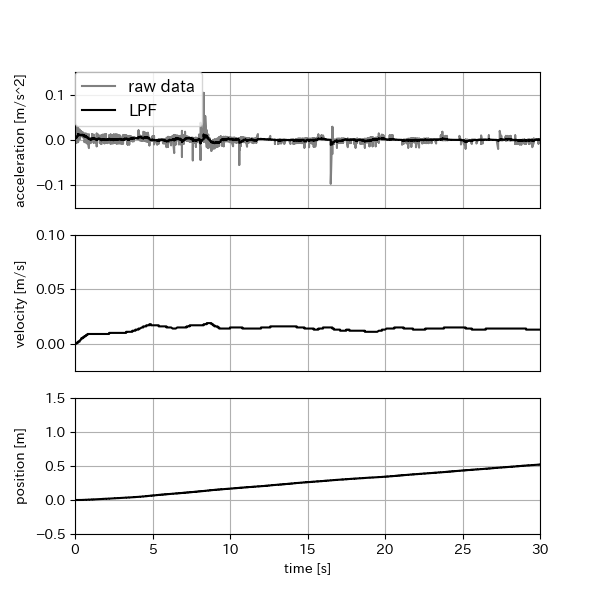
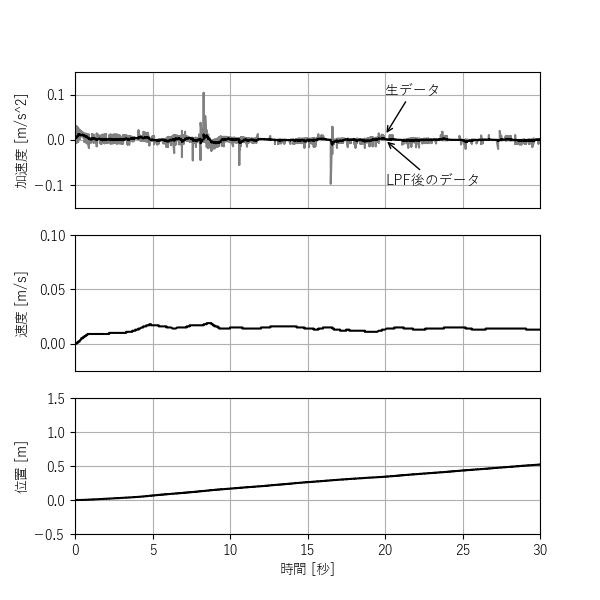
change graph

diff --git a/ExperimentalData/graph_rad.py b/ExperimentalData/graph_rad.py
@@ -1,8 +1,13 @@
 import numpy as np
 import matplotlib.pyplot as plt
-from enum import IntEnum, auto
+
+# 日本語フォント設定
+from matplotlib import rcParams
+rcParams["font.family"] = "sans-serif"
+rcParams["font.sans-serif"] = ["Yu Gothic"]
 
 # データの項目
+from enum import IntEnum, auto
 class item(IntEnum):
     time = 0
     acc_x = auto()
@@ -30,50 +35,23 @@ class item(IntEnum):
     pos_step_x = auto()
     pos_step_y = auto()
 
+# ローパスフィルタ
+def LPF(list):
+    list_LPF = [ list[0] ]
+    i = 1
+    C = 0.1
+    for nowdata in list:
+        list_LPF.append( (1-C) * list_LPF[i-1] + C * nowdata )
+        i+=1
+    list_LPF.pop(i-1)
+    return list_LPF
+
 # データの読み込み
 filename = "turnTable2"
 data = np.loadtxt("data/" + filename + ".txt", delimiter = ",", skiprows = 2, unpack = True) 
-fig1 = plt.figure(figsize=(6, 6))
 
-# ローパスフィルタ
-gyro_z_LPF = [ data[item.rad_vel_z][0] ]
-i = 1
-C = 0.1
-for nowdata in data[item.rad_vel_z]:
-    gyro_z_LPF.append( (1-C) * gyro_z_LPF[i-1] + C * nowdata )
-    i+=1
-gyro_z_LPF.pop(i-1)
-gyro_z_LPF_deg = list(map(lambda x: x * 180/np.pi, gyro_z_LPF))
-
-graph = fig1.add_subplot(311) 
-# graph.plot(data[time],data[rad_vel_x] * 180/np.pi, color="red", label = "x")
-# graph.plot(data[time],data[rad_vel_y] * 180/np.pi, color="blue", label = "y")
-graph.plot(data[item.time]/60, data[item.rad_vel_z]*180/np.pi, color="gray", label = "raw data")
-# graph.plot(data[item.time], gyro_z_LPF, color="black", label = "z")
-graph.plot(data[item.time]/60, gyro_z_LPF_deg, color="black", label = "LPF")
-plt.tick_params(labelbottom=False, bottom=False)
-graph.set_ylabel("angular velocity [deg/s]")
-graph.yaxis.set_label_coords(-0.1, 0.5)
-plt.legend(bbox_to_anchor=(0, 0), loc="lower left", borderaxespad=0, fontsize=12)
-plt.xlim(0,5)
-# plt.ylim(-0.13,0.13)
-plt.grid()
-
-graph = fig1.add_subplot(312)
+# 角度理想値
 expected = (data[item.time]+25)*6.12%360-180
-graph.plot(data[item.time]/60, expected, color="gray", label = "expected")
-graph.plot(data[item.time]/60, data[item.rad_gyro_z]*180/np.pi, color="red", label = "gyro")
-graph.plot(data[item.time]/60, data[item.rad_mag_z]*180/np.pi, color="blue", label = "mag")
-plt.legend(bbox_to_anchor=(0, 0), loc="lower left", borderaxespad=0, fontsize=12)
-plt.xlim(0,5)
-plt.ylim(-180,180)
-graph.set_yticks(np.linspace(-180, 180, 9))
-plt.grid()
-plt.tick_params(labelbottom=False, bottom=False)
-graph.set_ylabel("angle [deg]")
-graph.yaxis.set_label_coords(-0.1, 0.5)
-
-graph = fig1.add_subplot(313)
 
 # 誤差算出
 error_gyro = (expected - data[item.rad_gyro_z]*180/np.pi) % 360
@@ -88,15 +66,96 @@ for deg in error_mag:
     if deg > 180:
         error_mag[i] = deg-360
     i+=1
-    
-graph.plot(data[item.time]/60, error_gyro, color="red", label = "gyro")
-graph.plot(data[item.time]/60, error_mag, color="blue", label = "mag")
-plt.grid()
-plt.xlim(0,5)
-graph.set_yticks(np.linspace(-180, 180, 9))
-graph.set_ylabel("error [deg]")
-graph.yaxis.set_label_coords(-0.1, 0.5)
 
-graph.set_xlabel("time [min]")
+# 画面生成
+fig = plt.figure(figsize=(6, 6))
 
-plt.savefig("graph/rad/" + filename + ".png")
+# グラフ生成
+graph1 = fig.add_subplot(311) 
+graph2 = fig.add_subplot(312)
+graph3 = fig.add_subplot(313)
+
+# プロット
+graph1.plot(data[item.time]/60, data[item.rad_vel_z]*180/np.pi, color="gray", label = "raw data")
+graph1.plot(data[item.time]/60, LPF(data[item.rad_vel_z]*180/np.pi), color="black", label = "LPF")
+
+graph2.plot(data[item.time]/60, expected, color="gray", label = "expected")
+graph2.plot(data[item.time]/60, data[item.rad_gyro_z]*180/np.pi, color="red", label = "gyro")
+graph2.plot(data[item.time]/60, data[item.rad_mag_z]*180/np.pi, color="blue", label = "mag")
+
+graph3.plot(data[item.time]/60, error_gyro, color="red", label = "gyro")
+graph3.plot(data[item.time]/60, error_mag, color="blue", label = "mag")
+
+# 値の範囲
+xmin = 0
+xmax = 5
+graph1.set_xlim(xmin,xmax)
+graph2.set_xlim(xmin,xmax)
+graph3.set_xlim(xmin,xmax)
+
+ymin = -180
+ymax =  180
+graph2.set_ylim(ymin,ymax)
+graph3.set_ylim(ymin,ymax)
+
+# 目盛
+graph2.set_yticks(np.linspace(-180, 180, 9))
+graph3.set_yticks(np.linspace(-180, 180, 9))
+
+# ラベル
+graph1.tick_params(labelbottom=False, bottom=False)
+graph2.tick_params(labelbottom=False, bottom=False)
+graph3.set_xlabel("時間 [分]")
+
+graph1.set_ylabel("角速度 [deg/s]")
+graph2.set_ylabel("角度 [deg]")
+graph3.set_ylabel("誤差 [deg]")
+
+graph1.yaxis.set_label_coords(-0.1, 0.5)
+graph2.yaxis.set_label_coords(-0.1, 0.5)
+graph3.yaxis.set_label_coords(-0.1, 0.5)
+
+# グリッド
+graph1.grid()
+graph2.grid()
+graph3.grid()
+
+# 凡例
+# graph1.legend(bbox_to_anchor=(0, 0), loc="lower left", borderaxespad=0, fontsize=12)
+
+# 注釈
+graph1.annotate("生データ",
+                xy=[4, 5],
+                xytext=[4, 1.5],
+                arrowprops=dict(arrowstyle="->"))
+graph1.annotate("LPF後のデータ",
+                xy=[3, 6.2],
+                xytext=[2, 1.5],
+                arrowprops=dict(arrowstyle="->"))
+
+graph2.annotate("理想値",
+                xy=[4.4, 135],
+                xytext=[3.6, 90],
+                arrowprops=dict(arrowstyle="->"))
+graph2.annotate("角速度",
+                xy=[4, -30],
+                xytext=[4, -135],
+                arrowprops=dict(arrowstyle="->"))
+graph2.annotate("地磁気",
+                xy=[3, 10],
+                xytext=[2.7, 90],
+                arrowprops=dict(arrowstyle="->"))
+
+graph3.annotate("角速度",
+                xy=[4, 30],
+                xytext=[4, 90],
+                arrowprops=dict(arrowstyle="->"))
+graph3.annotate("地磁気",
+                xy=[4, -3],
+                xytext=[4, -90],
+                arrowprops=dict(arrowstyle="->"))
+
+# 画像出力
+fig.savefig("graph/rad/" + filename + ".png")
+
+# plt.show()

diff --git a/ExperimentalData/acc/graph.py b/ExperimentalData/acc/graph.py
@@ -1,18 +1,24 @@
 import numpy as np
 import matplotlib.pyplot as plt
 
+# 日本語フォント設定
+from matplotlib import rcParams
+rcParams["font.family"] = "sans-serif"
+rcParams["font.sans-serif"] = ["Yu Gothic"]
+
+# ローパスフィルタ
+def LPF(list):
+    list_LPF = [ list[0] ]
+    i = 1
+    C = 0.1
+    for nowdata in list:
+        list_LPF.append( (1-C) * list_LPF[i-1] + C * nowdata )
+        i+=1
+    list_LPF.pop(i-1)
+    return list_LPF
+
 for i in range(3):
     time,acc_x,acc_y,acc_z,vel_x,vel_y,vel_z,pos_x,pos_y,pos_z = np.loadtxt(str(i) + ".txt", delimiter = ",", skiprows = 1, unpack = True)
-    
-    # ローパスフィルタ
-    acc_z_LPF = [ acc_z[0] ]
-    j = 1
-    C = 0.1
-    for nowdata in acc_z:
-        acc_z_LPF.append( (1-C) * acc_z_LPF[j-1] + C * nowdata )
-        j+=1
-    acc_z_LPF.pop(i-1)
-    # acc_z_LPF_deg = list(map(lambda x: x * 180/np.pi, acc_z_LPF))
 
     fig1 = plt.figure(figsize=(6, 6))
 
@@ -20,21 +26,31 @@ for i in range(3):
     # graph.plot(time,acc_x, color="red", label = "x")
     # graph.plot(time,acc_y, color="blue", label = "y")
     graph.plot(time-4,acc_z, color="gray", label = "raw data")
-    graph.plot(time-4,acc_z_LPF, color="black", label = "LPF")
+    graph.plot(time-4,LPF(acc_z), color="black", label = "LPF")
     plt.tick_params(labelbottom=False, bottom=False)
-    graph.set_ylabel("acceleration [m/s^2]")
+    graph.set_ylabel("加速度 [m/s^2]")
     graph.yaxis.set_label_coords(-0.1, 0.5)
     plt.xlim(0,30)
     plt.ylim(-0.15,0.15)
-    plt.legend(bbox_to_anchor=(0, 1), loc="upper left", borderaxespad=0, fontsize=12)
+    # plt.legend(bbox_to_anchor=(0, 1), loc="upper left", borderaxespad=0, fontsize=12)
     plt.grid()
+
+    # 注釈
+    graph.annotate("生データ",
+                    xy=[20, 0.01],
+                    xytext=[20, 0.1],
+                    arrowprops=dict(arrowstyle="->"))
+    graph.annotate("LPF後のデータ",
+                    xy=[20, 0],
+                    xytext=[20, -0.1],
+                    arrowprops=dict(arrowstyle="->"))
 
     graph = fig1.add_subplot(312)
     # graph.plot(time,vel_x, color="red")
     # graph.plot(time,vel_y, color="blue")
     graph.plot(time-4,vel_z, color="black")
     plt.tick_params(labelbottom=False, bottom=False)
-    graph.set_ylabel("velocity [m/s]")
+    graph.set_ylabel("速度 [m/s]")
     graph.yaxis.set_label_coords(-0.1, 0.5)
     # plt.xlim(4,34)
     plt.xlim(0,30)
@@ -48,10 +64,10 @@ for i in range(3):
     # plt.xlim(4,34)
     plt.xlim(0,30)
     plt.ylim(-0.5,1.5)
-    graph.set_ylabel("position [m]")
+    graph.set_ylabel("位置 [m]")
     graph.yaxis.set_label_coords(-0.1, 0.5)
     plt.grid()
 
-    graph.set_xlabel("time [s]")
+    graph.set_xlabel("時間 [秒]")
 
     plt.savefig(str(i) + ".png")

diff --git a/ExperimentalData/graph_acc.py b/ExperimentalData/graph_acc.py
@@ -2,6 +2,11 @@ import numpy as np
 import matplotlib.pyplot as plt
 from enum import IntEnum, auto
 
+# 日本語フォント設定
+from matplotlib import rcParams
+rcParams["font.family"] = "sans-serif"
+rcParams["font.sans-serif"] = ["Yu Gothic"]
+
 # データの項目
 class item(IntEnum):
     time = 0
@@ -79,7 +84,8 @@ graph.set_ylabel("z [m/s^2]")
 plt.xlim(xmin,xmax)
 plt.ylim(ymin,ymax)
 
-graph.set_xlabel("time [s]")
+graph.set_xlabel("時間 [秒]")
 
 plt.savefig("graph/acc/" + filename + ".png")
-plt.show()
+
+# plt.show()
